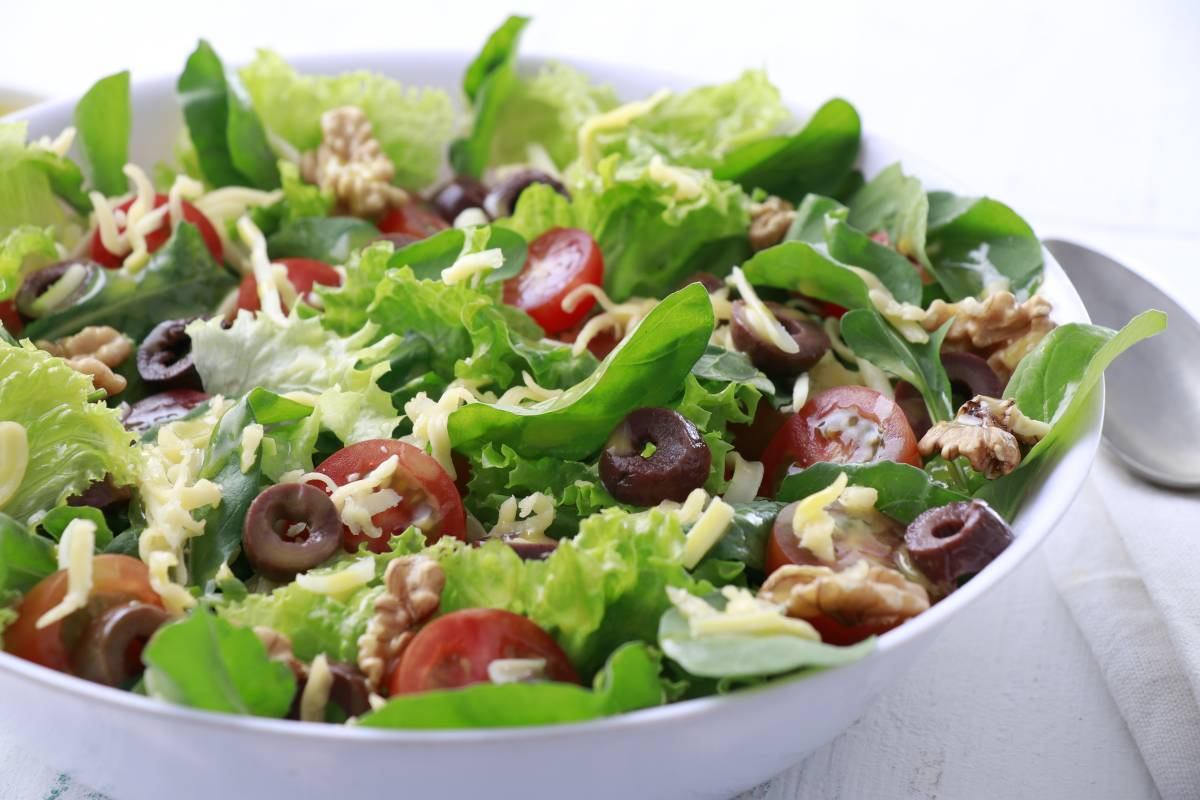
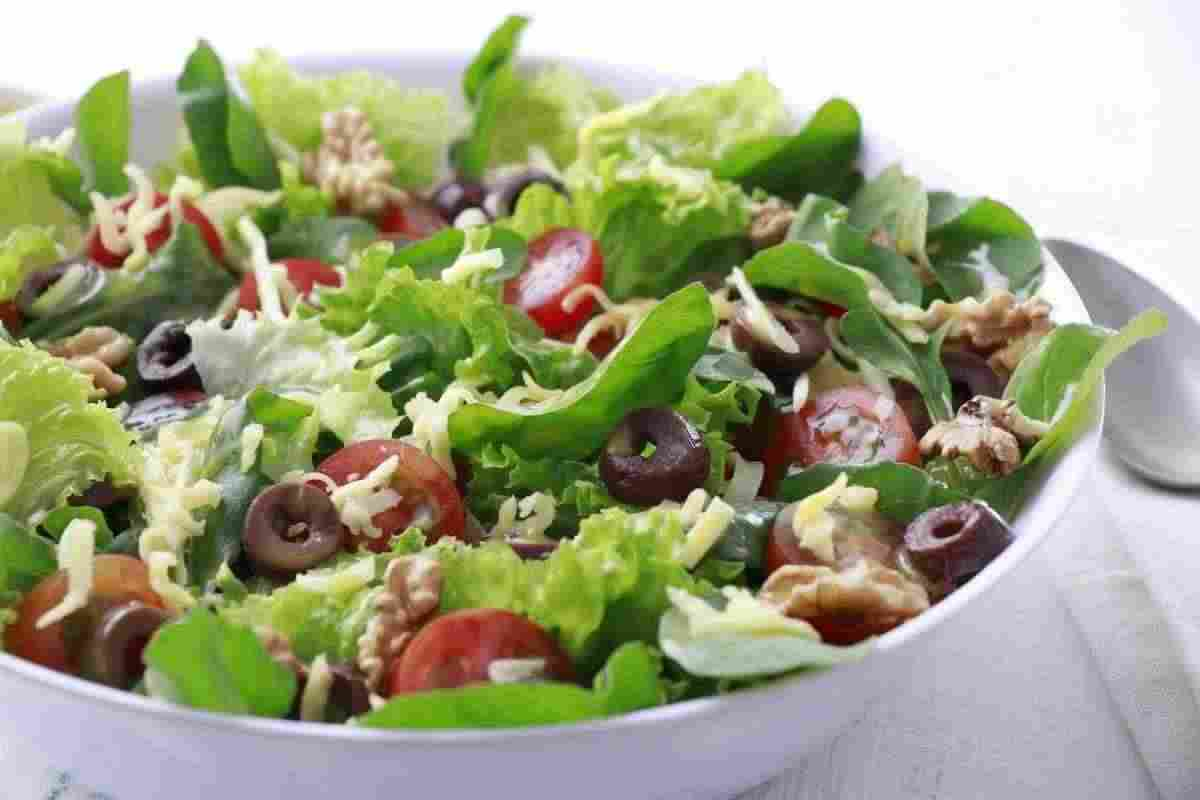
Cambios en tamaño de imagenes para carga en internet

diff --git a/application/views/templates/head.php b/application/views/templates/head.php
@@ -22,9 +22,13 @@
     </script>
 
     <link rel="icon" type="image/png" href="<?=base_url('assets/images/favicon.ico')?>" />
-
+    <?php /*
     <link rel="stylesheet" href="<?=base_url('assets/css/bootstrap.css')?>">
     <link rel="stylesheet" href="<?=base_url('assets/css/font-awesome.min.css')?>">
+    <link rel="stylesheet" href="<?=base_url('assets/css/style.css')?>">*/?>
+
+    <link rel="stylesheet" href="https://maxcdn.bootstrapcdn.com/bootstrap/3.3.7/css/bootstrap.min.css" integrity="sha384-BVYiiSIFeK1dGmJRAkycuHAHRg32OmUcww7on3RYdg4Va+PmSTsz/K68vbdEjh4u" crossorigin="anonymous">
+    <link rel="stylesheet" href="https://cdnjs.cloudflare.com/ajax/libs/font-awesome/4.7.0/css/font-awesome.min.css" crossorigin="anonymous">
     <link rel="stylesheet" href="<?=base_url('assets/css/style.css')?>">
 
 </head>
